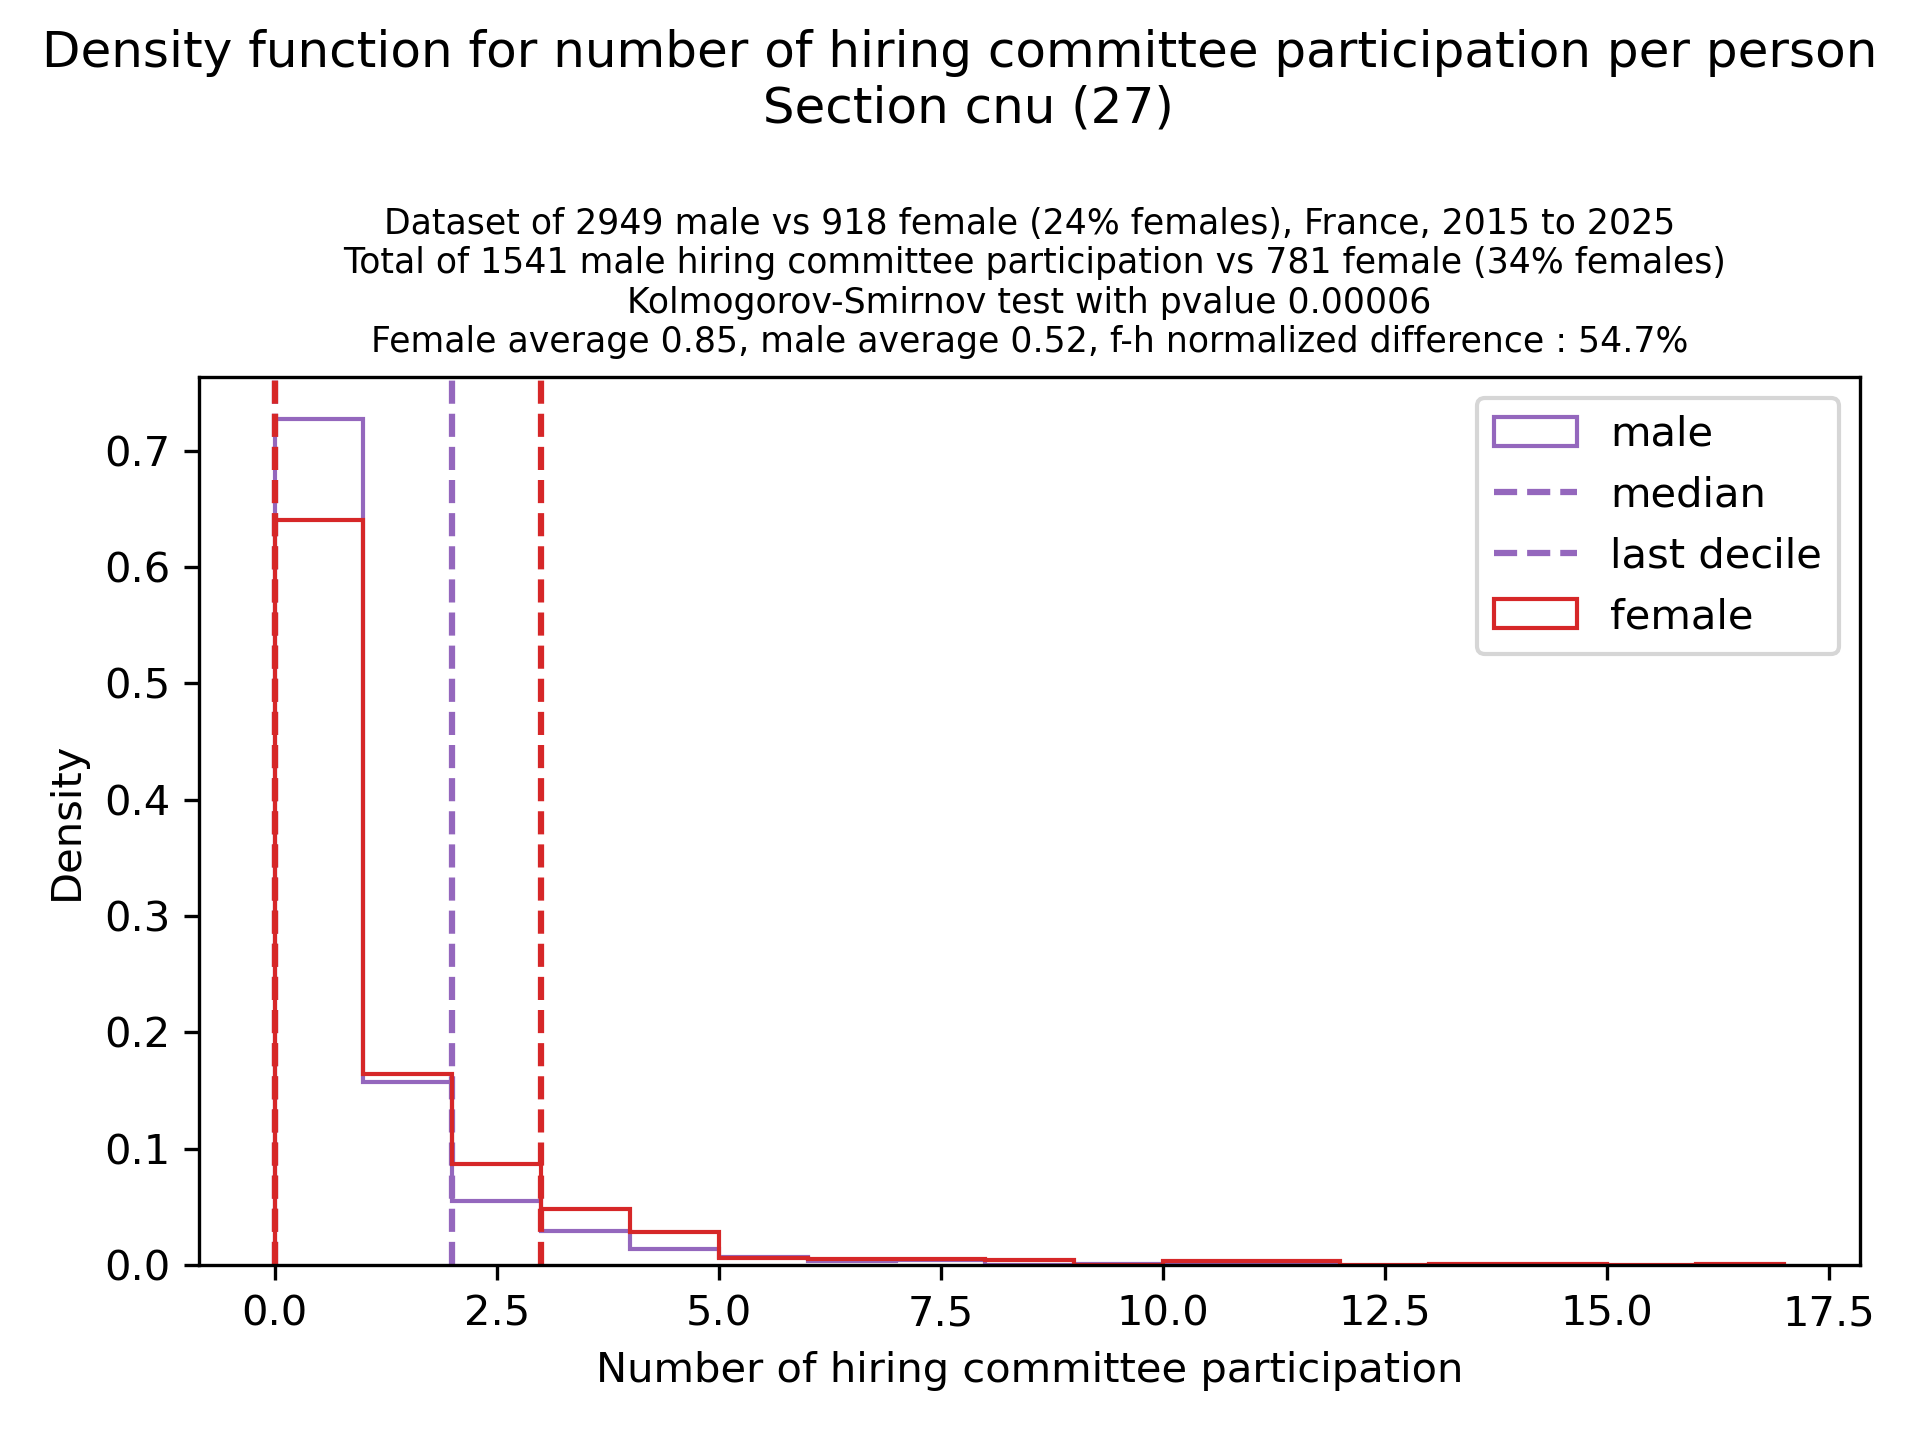
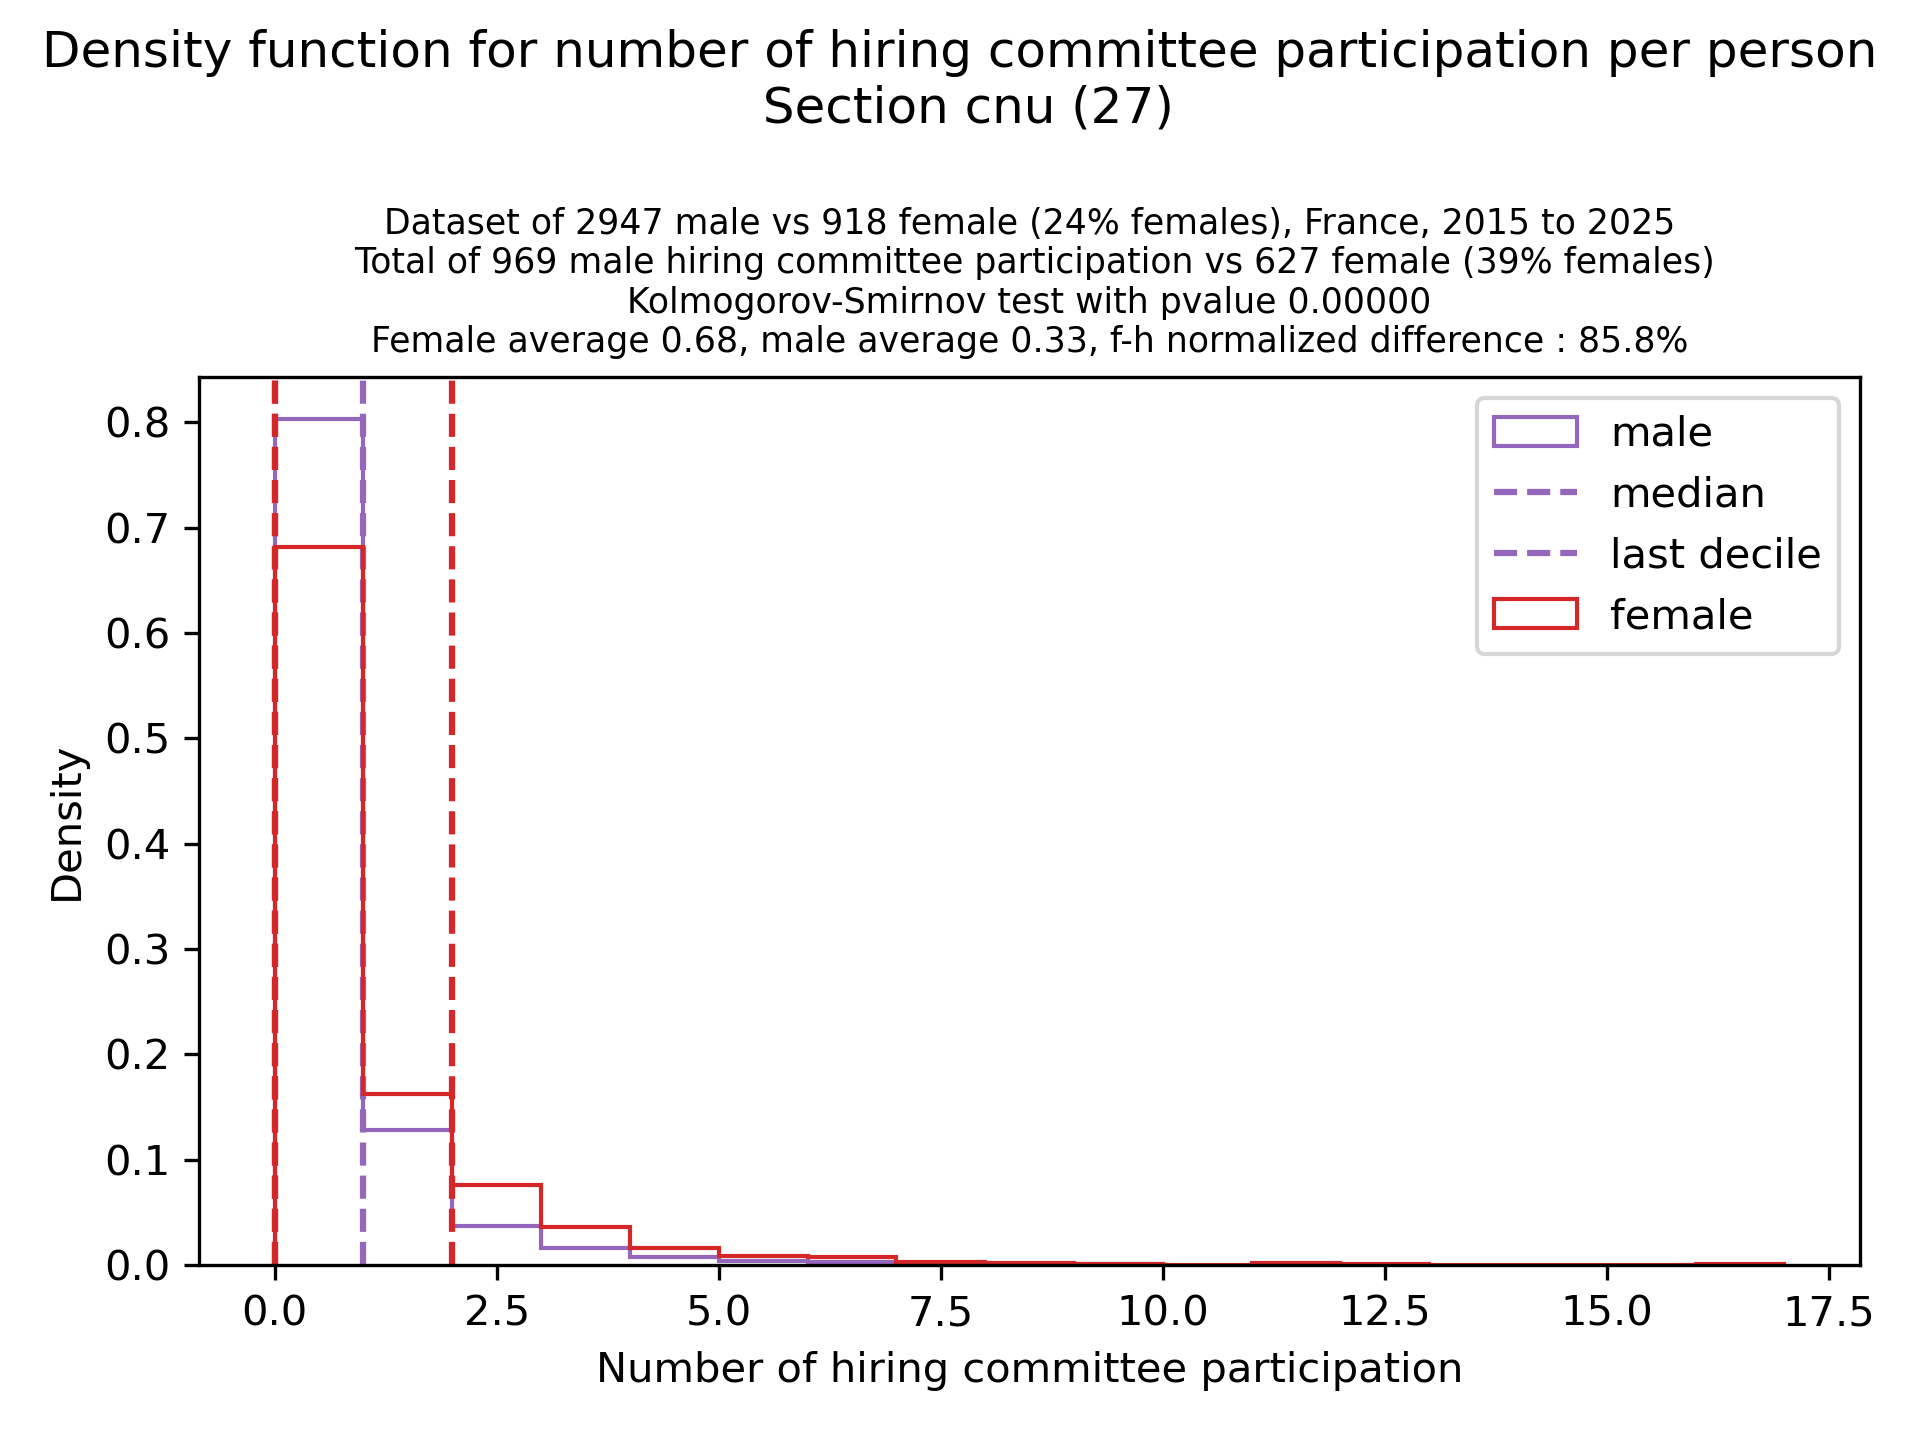
improve jury poste, for mcf/pu

diff --git a/supervision-reviewing-jury/stats.py b/supervision-reviewing-jury/stats.py
@@ -463,12 +463,29 @@ def print_cnu(section):
 
     h_cnu = cur.execute(f"SELECT cnu.fullname from cnu \
     where cnu.gender='H' and cnu.section IN {section} ").fetchall()
-    print(len(h_cnu))
+    print(f"Number of male: {len(h_cnu)}")
 
     f_cnu = cur.execute(f"SELECT cnu.fullname from cnu \
     where cnu.gender='F' and cnu.section IN {section}").fetchall()
-    print(len(f_cnu))
+    print(f"Number of female: {len(f_cnu)}")
 
+
+    h_cnu_pu = cur.execute(f"SELECT cnu.fullname from cnu \
+    where cnu.gender='H' and cnu.rank='PU' and cnu.section IN {section} ").fetchall()
+    print(f"Number of male PU: {len(h_cnu_pu)}")
+
+    f_cnu_pu = cur.execute(f"SELECT cnu.fullname from cnu \
+    where cnu.gender='F' and cnu.rank='PU' and cnu.section IN {section}").fetchall()
+    print(f"Number of female PU: {len(f_cnu_pu)}")
+
+
+    h_cnu_mcf = cur.execute(f"SELECT cnu.fullname from cnu \
+    where cnu.gender='H' and cnu.rank='MCF' and cnu.section IN {section} ").fetchall()
+    print(f"Number of male MCF: {len(h_cnu_mcf)}")
+
+    f_cnu_mcf = cur.execute(f"SELECT cnu.fullname from cnu \
+    where cnu.gender='F' and cnu.rank='MCF' and cnu.section IN {section}").fetchall()
+    print(f"Number of female MCF: {len(f_cnu_mcf)}")
 
     h_directed= [ p[1] for p in cur.execute(f"SELECT cnu.fullname, COUNT(directed.fullname) from cnu \
     JOIN directed ON cnu.fullname=directed.fullname \
@@ -519,6 +536,36 @@ def print_cnu(section):
     make_graph(h_jury, f_jury, False, dom, "examiner.zoom2."+sdom, (25,60), "thesis examination")    
 
 
+    h_jury_pu= [ p[1] for p in cur.execute(f"SELECT cnu.fullname, COUNT(jury.fullname) from cnu \
+    JOIN jury ON cnu.fullname=jury.fullname \
+    where cnu.gender='H' and cnu.rank='PU'  and cnu.section IN {section} \
+    GROUP BY jury.fullname").fetchall()]
+    
+    f_jury_pu= [ p[1] for p in cur.execute(f"SELECT cnu.fullname, COUNT(jury.fullname) from cnu \
+    JOIN jury ON cnu.fullname=jury.fullname \
+    where cnu.gender='F' and cnu.rank='PU' and cnu.section IN {section} \
+    GROUP BY jury.fullname").fetchall()]
+    
+    h_jury_pu += [0 for i in range(0,len(h_cnu_pu) - len(h_jury_pu))]
+    f_jury_pu += [0 for i in range(0,len(f_cnu_pu) - len(f_jury_pu))]        
+    
+    h_jury_mcf= [ p[1] for p in cur.execute(f"SELECT cnu.fullname, COUNT(jury.fullname) from cnu \
+    JOIN jury ON cnu.fullname=jury.fullname \
+    where cnu.gender='H' and cnu.rank='MCF'  and cnu.section IN {section} \
+    GROUP BY jury.fullname").fetchall()]
+    
+    f_jury_mcf= [ p[1] for p in cur.execute(f"SELECT cnu.fullname, COUNT(jury.fullname) from cnu \
+    JOIN jury ON cnu.fullname=jury.fullname \
+    where cnu.gender='F' and cnu.rank='MCF' and cnu.section IN {section} \
+    GROUP BY jury.fullname").fetchall()]
+
+    h_jury_mcf += [0 for i in range(0,len(h_cnu_mcf) - len(h_jury_mcf))]
+    f_jury_mcf += [0 for i in range(0,len(f_cnu_mcf) - len(f_jury_mcf))]        
+    
+
+    make_graph(h_jury_pu, f_jury_pu, False, dom, "examiner.pu."+sdom, None, "thesis examination from PU")
+    make_graph(h_jury_mcf, f_jury_mcf, False, dom, "examiner.mcf."+sdom, None, "thesis examination from MCF")        
+    
     h_reviewed=  [ p[1] for p in cur.execute(f"SELECT cnu.fullname, COUNT(reviewed.fullname) from cnu \
     JOIN reviewed ON cnu.fullname=reviewed.fullname \
     where cnu.gender='H'  and cnu.section IN {section} \
@@ -559,7 +606,40 @@ def print_cnu(section):
     print(f"Women over five committee: {f_over_tw}, {f_over_tw/len(f_jury_poste):.0%} ")
     print(f"Men over five committee: {h_over_tw}, {h_over_tw/len(h_jury_poste):.0%}")
     
-    make_graph(h_jury_poste, f_jury_poste, False, dom, "jury_poste."+sdom, None, "hiring committee participation")        
+    make_graph(h_jury_poste, f_jury_poste, False, dom, "jury_poste."+sdom, None, "hiring committee participation")
+
+
+
+    h_jury_poste_pu=  [ p[1] for p in cur.execute(f"SELECT cnu.fullname, COUNT(is_in_jury_poste.fullname) from cnu \
+    JOIN is_in_jury_poste ON cnu.fullname=is_in_jury_poste.fullname \
+    where cnu.gender='H' and cnu.rank='PU'  and cnu.section IN {section} \
+    GROUP BY is_in_jury_poste.fullname").fetchall()]
+    
+    f_jury_poste_pu= [ p[1] for p in cur.execute(f"SELECT cnu.fullname, COUNT(is_in_jury_poste.fullname) from cnu \
+    JOIN is_in_jury_poste ON cnu.fullname=is_in_jury_poste.fullname \
+    where cnu.gender='F'  and cnu.rank='PU' and cnu.section IN {section} \
+    GROUP BY is_in_jury_poste.fullname").fetchall()]
+
+    h_jury_poste_pu += [0 for i in range(0,len(h_cnu_pu) - len(h_jury_poste_pu))]
+    f_jury_poste_pu += [0 for i in range(0,len(f_cnu_pu) - len(f_jury_poste_pu))]            
+
+
+    h_jury_poste_mcf=  [ p[1] for p in cur.execute(f"SELECT cnu.fullname, COUNT(is_in_jury_poste.fullname) from cnu \
+    JOIN is_in_jury_poste ON cnu.fullname=is_in_jury_poste.fullname \
+    where cnu.gender='H' and cnu.rank='MCF'  and cnu.section IN {section} \
+    GROUP BY is_in_jury_poste.fullname").fetchall()]
+    
+    f_jury_poste_mcf= [ p[1] for p in cur.execute(f"SELECT cnu.fullname, COUNT(is_in_jury_poste.fullname) from cnu \
+    JOIN is_in_jury_poste ON cnu.fullname=is_in_jury_poste.fullname \
+    where cnu.gender='F'  and cnu.rank='MCF' and cnu.section IN {section} \
+    GROUP BY is_in_jury_poste.fullname").fetchall()]
+
+    h_jury_poste_mcf += [0 for i in range(0,len(h_cnu_mcf) - len(h_jury_poste_mcf))]
+    f_jury_poste_mcf += [0 for i in range(0,len(f_cnu_mcf) - len(f_jury_poste_mcf))]            
+    
+    make_graph(h_jury_poste_pu, f_jury_poste_pu, False, dom, "jury_poste.pu."+sdom, None, "hiring committee participation from PU")
+    make_graph(h_jury_poste_mcf, f_jury_poste_mcf, False, dom, "jury_poste.mcf."+sdom, None, "hiring committee participation from MCF")
+    
 
 def eval_gender_guessing():
     f_cnu =  [p[0] for p in cur.execute("SELECT cnu.firstname from cnu WHERE cnu.gender='F'").fetchall()]

diff --git a/supervision-reviewing-jury/test.py b/supervision-reviewing-jury/test.py
@@ -36,7 +36,7 @@ if cur.execute("SELECT name FROM sqlite_master where name='reviewed'").fetchone(
 
 # cur.execute("DROP TABLE cnu") 
 if cur.execute("SELECT name FROM sqlite_master where name='cnu'").fetchone() is None:
-    cur.execute("CREATE TABLE cnu(gender, fullname, firstname, surname, section)")
+    cur.execute("CREATE TABLE cnu(gender, fullname, firstname, surname, rank, section)")
 
 if cur.execute("SELECT name FROM sqlite_master where name='years'").fetchone() is None:
     cur.execute("CREATE TABLE years(id, year, FOREIGN KEY (id) REFERENCES thesis(id))")
@@ -391,25 +391,32 @@ def load_cnu(f, allow_dup, year, section):
                 gender='F'
             else :
                 print(row[1])
+            if row[9]=='Professeur des Universités':
+                rank='PU'
+            elif row[9]=='Maître de conférences':
+                rank='MCF'
+            else:
+                rank='Other'
             surname=unidecode(row[5].lower())
             firstname=unidecode(row[7].lower())
             college=row[11]
             fullname=firstname + " " + surname
             fn = fullname.replace("'","''")
             if allow_dup or (not cur.execute(f"SELECT * from cnu where cnu.fullname='{fn}'").fetchall()):
-                data.append( (gender,firstname + " " + surname,firstname,surname, section))
+                data.append( (gender,firstname + " " + surname,firstname,surname, rank, section))
 
-    cur.executemany("INSERT OR IGNORE INTO cnu VALUES(?, ?, ?, ?, ?)", data)
+    cur.executemany("INSERT OR IGNORE INTO cnu VALUES(?, ?, ?, ?, ?, ?)", data)
     con.commit()
-    
 
-# load_cnu('cnu_27_2019.csv', False, 2019, 27)
-# load_cnu('cnu_26_2019.csv', False, 2019, 26)
-# load_cnu('cnu_25_2019.csv', False, 2019, 25)
+load_cnu('cnu_27_2023.csv', False, 2023, 27)
+load_cnu('cnu_26_2023.csv', False, 2023, 26)
+load_cnu('cnu_25_2023.csv', False, 2023, 25)
 
-# load_cnu('cnu_27_2023.csv', False, 2023, 27)
-# load_cnu('cnu_26_2023.csv', False, 2023, 26)
-# load_cnu('cnu_25_2023.csv', False, 2023, 25)
+
+load_cnu('cnu_27_2019.csv', False, 2019, 27)
+load_cnu('cnu_26_2019.csv', False, 2019, 26)
+load_cnu('cnu_25_2019.csv', False, 2019, 25)
+
 
 
 def link_cnu(domain):
@@ -473,8 +480,8 @@ def link_cnu(domain):
 
 
     
-# link_cnu("informatique")
-# link_cnu("mathématiques")
+link_cnu("informatique")
+link_cnu("mathématiques")
 
 
 # get_all_pers= cur.execute("SELECT * from persons \
@@ -533,7 +540,7 @@ def load_op_poste():
     cur.executemany("INSERT OR IGNORE INTO jury_poste VALUES(?, ?, ?, ?)", data)
     con.commit()
 
-load_op_poste()    
+# load_op_poste()    
 
 def link_op_poste_cnu():
     cnu_names = cur.execute("SELECT cnu.fullname, cnu.surname, cnu.firstname from cnu").fetchall()
